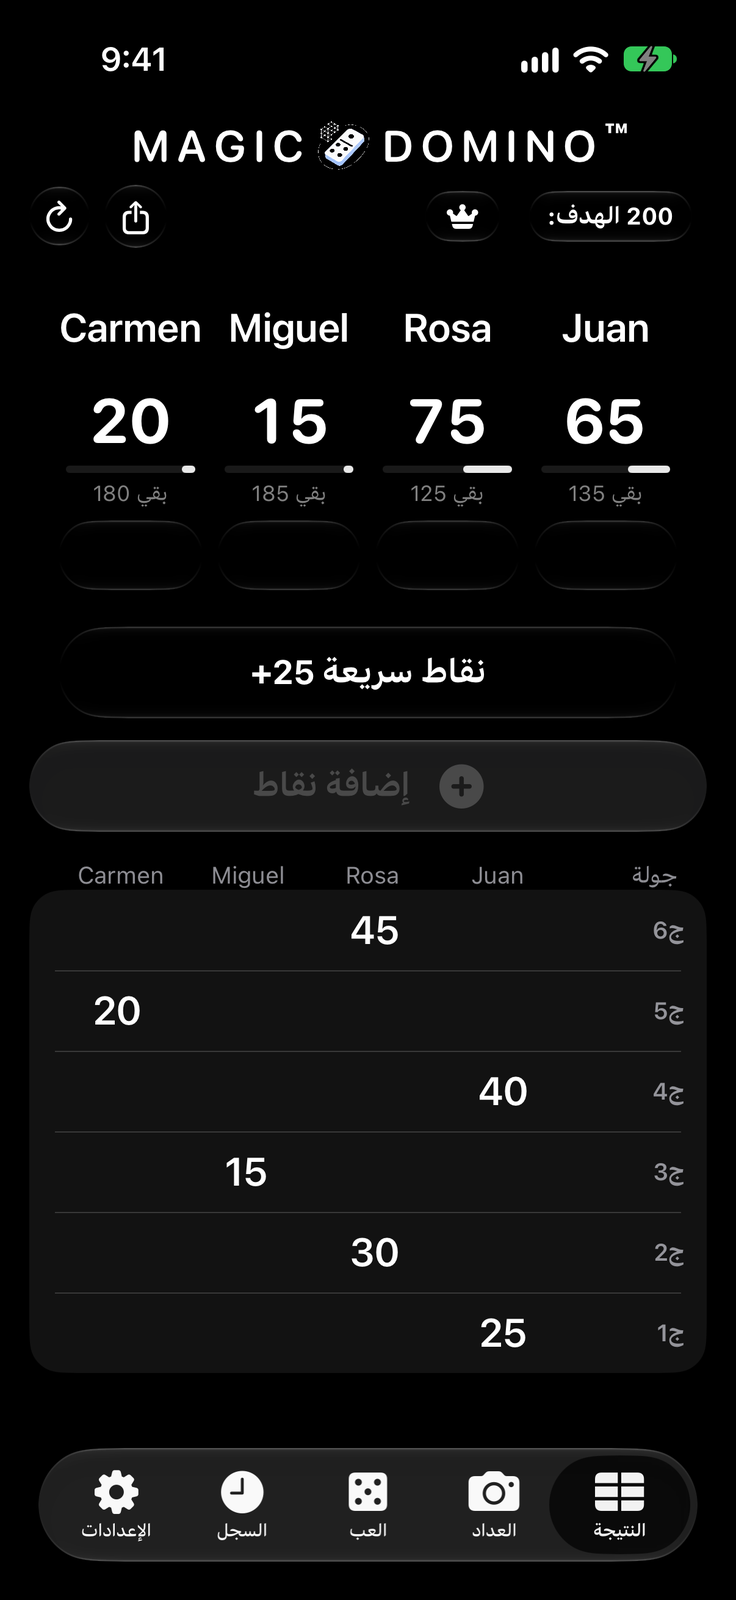
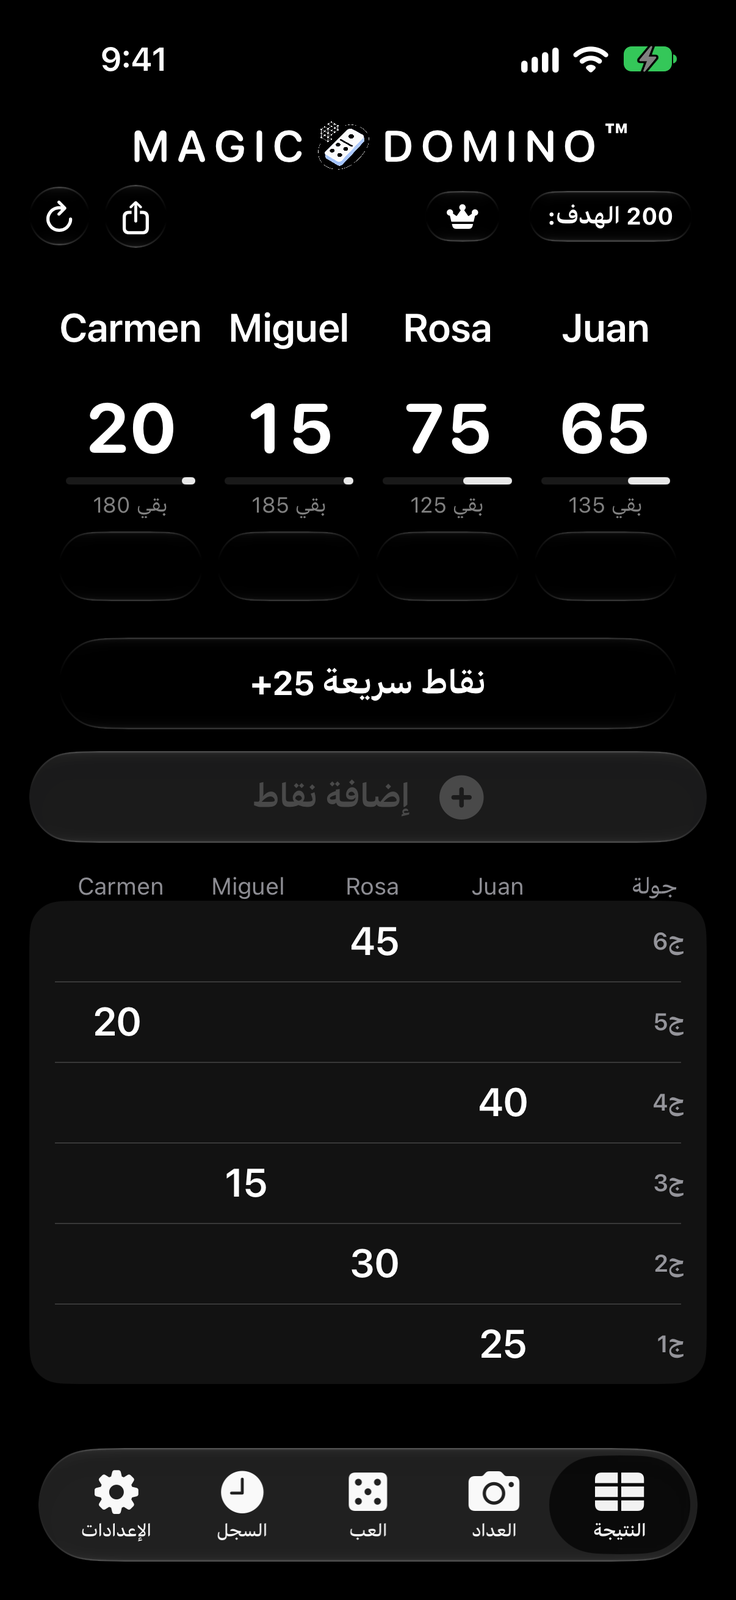
Site: shot-6 (four players, OLED) recaptured at the scoreboard's new 38pt four-player totals, all 17 languages; cache versions bumped

diff --git a/index.html b/index.html
@@ -26,7 +26,7 @@
     <link rel="preconnect" href="https://fonts.gstatic.com" crossorigin>
     <link href="https://fonts.googleapis.com/css2?family=Fraunces:ital,opsz,wght@0,9..144,400;0,9..144,500;0,9..144,600;0,9..144,700;0,9..144,800;1,9..144,500&family=Inter:wght@400;500;600;700&display=swap" rel="stylesheet">
     <link rel="stylesheet" href="site.css?v=20261012e">
-    <script src="/i18n.js?v=20261013a"></script>
+    <script src="/i18n.js?v=20261013b"></script>
     <script src="/site-stats.js?v=20261004a" defer></script>
 </head>
 <body>
@@ -128,7 +128,7 @@
                         <div class="ph" aria-hidden="true"><div class="ph-title" data-i18n="alt.shot2">Scoreboard view</div></div>
                     </div></figure>
                     <figure class="shot"><div class="shot-frame">
-                        <img data-shot="shot-6.png" src="shot-6.png?v=20261013a" alt="Four players in OLED mode" data-i18n-attr="alt:alt.shot6" data-missing onload="shotLoaded(this)" onerror="shotFailed(this)" loading="lazy">
+                        <img data-shot="shot-6.png" src="shot-6.png?v=20261013b" alt="Four players in OLED mode" data-i18n-attr="alt:alt.shot6" data-missing onload="shotLoaded(this)" onerror="shotFailed(this)" loading="lazy">
                         <div class="ph" aria-hidden="true"><div class="ph-title" data-i18n="alt.shot6">Four players in OLED mode</div></div>
                     </div></figure>
                     <figure class="shot"><div class="shot-frame">
@@ -177,7 +177,7 @@
                         <div class="ph" aria-hidden="true"><div class="ph-title" data-i18n="pshots.s10">Locked!</div></div>
                     </div></figure>
                     <figure class="shot"><div class="shot-frame">
-                        <img data-shot="play-shot-6.png" src="play-shot-6.png?v=20261013a" alt="The hand is over" data-i18n-attr="alt:pshots.s6" data-missing onload="shotLoaded(this)" onerror="shotFailed(this)" loading="lazy">
+                        <img data-shot="play-shot-6.png" src="play-shot-6.png?v=20261013b" alt="The hand is over" data-i18n-attr="alt:pshots.s6" data-missing onload="shotLoaded(this)" onerror="shotFailed(this)" loading="lazy">
                         <div class="ph" aria-hidden="true"><div class="ph-title" data-i18n="pshots.s6">The hand is over</div></div>
                     </div></figure>
                     <figure class="shot"><div class="shot-frame">

diff --git a/privacy.html b/privacy.html
@@ -10,7 +10,7 @@
     <link rel="preconnect" href="https://fonts.gstatic.com" crossorigin>
     <link href="https://fonts.googleapis.com/css2?family=Fraunces:ital,opsz,wght@0,9..144,400;0,9..144,500;0,9..144,600;0,9..144,700;1,9..144,500&family=Inter:wght@400;500;600;700&display=swap" rel="stylesheet">
     <link rel="stylesheet" href="site.css?v=20261012e">
-    <script src="/i18n.js?v=20261013a"></script>
+    <script src="/i18n.js?v=20261013b"></script>
     <script src="/site-stats.js?v=20261004a" defer></script>
 </head>
 <body>

diff --git a/support.html b/support.html
@@ -10,7 +10,7 @@
     <link rel="preconnect" href="https://fonts.gstatic.com" crossorigin>
     <link href="https://fonts.googleapis.com/css2?family=Fraunces:ital,opsz,wght@0,9..144,400;0,9..144,500;0,9..144,600;0,9..144,700;1,9..144,500&family=Inter:wght@400;500;600;700&display=swap" rel="stylesheet">
     <link rel="stylesheet" href="site.css?v=20261012e">
-    <script src="/i18n.js?v=20261013a"></script>
+    <script src="/i18n.js?v=20261013b"></script>
     <script src="/site-stats.js?v=20261004a" defer></script>
 </head>
 <body>

diff --git a/terms.html b/terms.html
@@ -10,7 +10,7 @@
     <link rel="preconnect" href="https://fonts.gstatic.com" crossorigin>
     <link href="https://fonts.googleapis.com/css2?family=Fraunces:ital,opsz,wght@0,9..144,400;0,9..144,500;0,9..144,600;0,9..144,700;1,9..144,500&family=Inter:wght@400;500;600;700&display=swap" rel="stylesheet">
     <link rel="stylesheet" href="site.css?v=20261012e">
-    <script src="/i18n.js?v=20261013a"></script>
+    <script src="/i18n.js?v=20261013b"></script>
     <script src="/site-stats.js?v=20261004a" defer></script>
 </head>
 <body>

diff --git a/i18n.js b/i18n.js
@@ -634,7 +634,7 @@
   // padding), plus 10px: Chrome for Mac insets a select's text a few pixels on its own.
   // The languages with a full set of screenshots in shots/<lang>/, and their cache version.
   var SHOT_LANGS = ["es", "fr", "pt", "ar", "zh", "nl", "de", "hi", "bn", "id", "ur", "tr", "it", "ja", "ko", "ru"];
-  var SHOT_V = "20261013a";
+  var SHOT_V = "20261013b";
 
   function fitSwitch(sel) {
     try {

diff --git a/404.html b/404.html
@@ -217,7 +217,7 @@
         .store-badge img { height: 44px; }
     }
 </style>
-    <script src="/i18n.js?v=20261013a"></script>
+    <script src="/i18n.js?v=20261013b"></script>
     <script src="/site-stats.js?v=20261004a" defer></script>
 </head>
 <body>

diff --git a/SCREENSHOTS.md b/SCREENSHOTS.md
@@ -104,7 +104,7 @@ site picture that shows the board was recaptured in all 17 languages, same seeds
 settings as `tools/sitecap/cap.py`: `hero-score.png` + `shot-2.png` (Los Tigres 165 · Las Águilas
 130), `shot-6.png` (four players, OLED) and `duo-split.png` (the Score half beside a dealt hand).
 `social-card.png` re-rendered from the new hero. `SHOT_V` and every `i18n.js?v=` bumped to
-20261013a. Shot on a clone of "MD Site Shots" (so 9:41 and the answered prompts carry over) and the
+20261013a (shot-6 again as 20261013b: four-player totals went 34 → 38pt). Shot on a clone of "MD Site Shots" (so 9:41 and the answered prompts carry over) and the
 session's own Duo simulator; the other site pictures were not touched.
 
 ## The Duo
